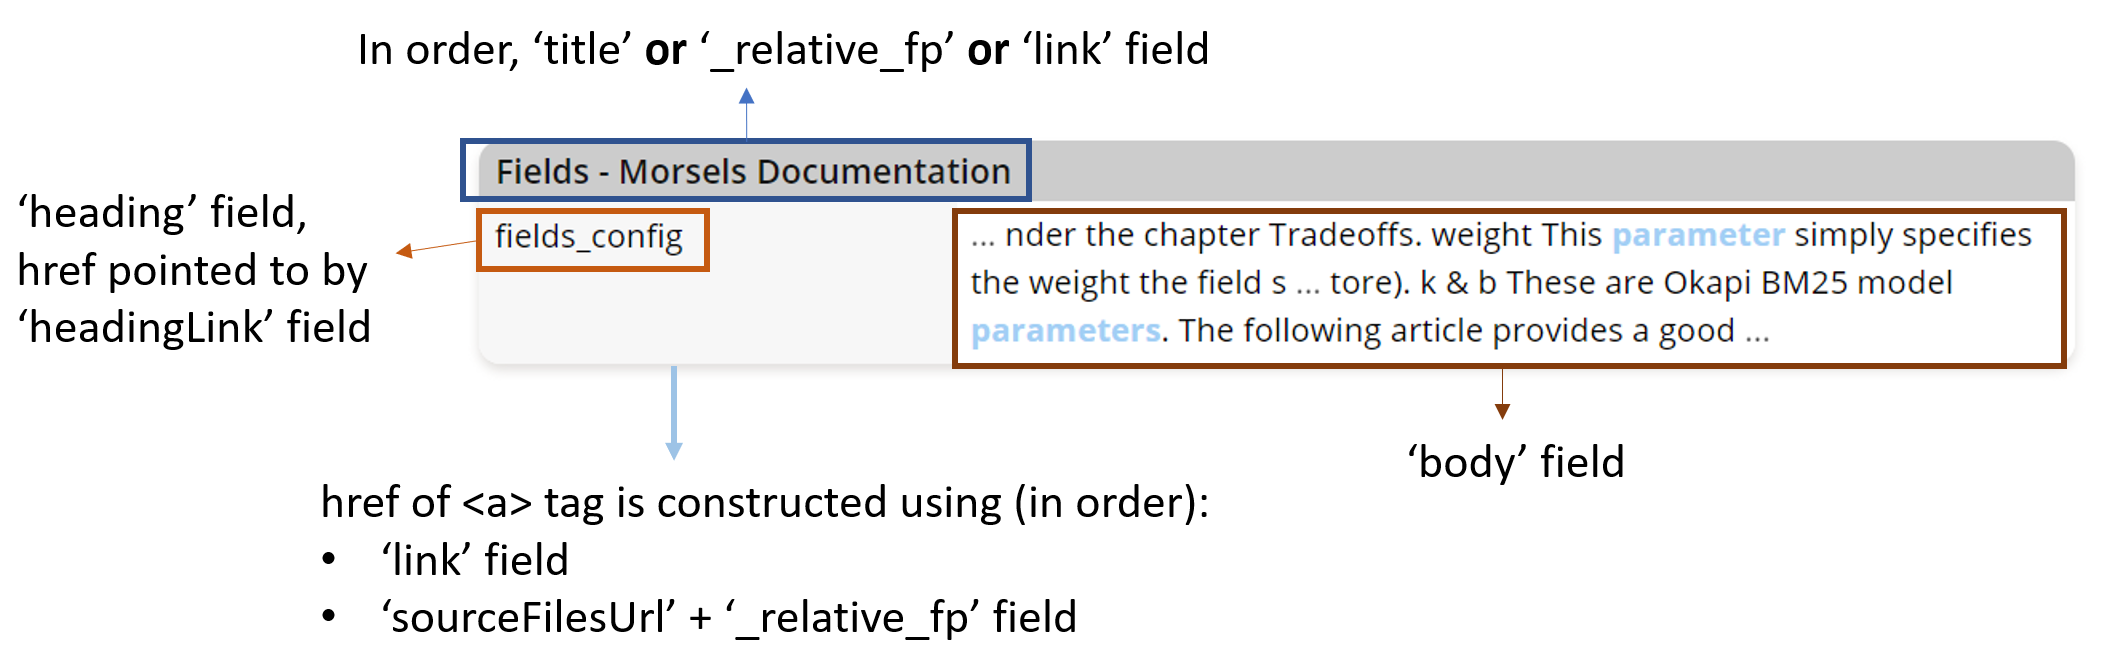
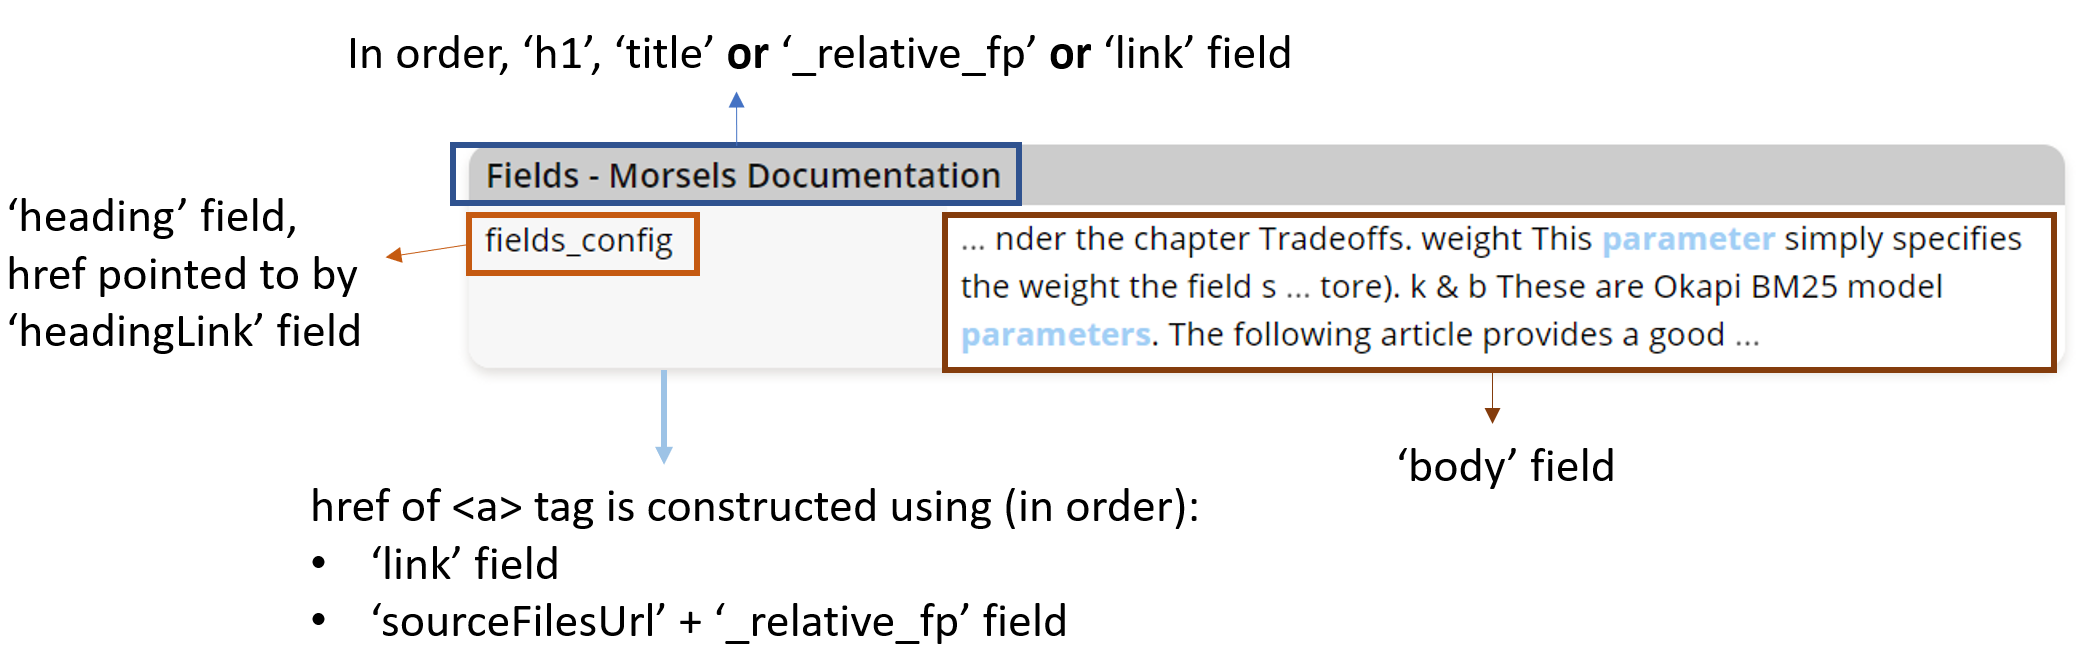
Prefer H1 to <title> if present

diff --git a/packages/search-ui/src/searchResultTransform.ts b/packages/search-ui/src/searchResultTransform.ts
@@ -32,6 +32,7 @@ async function singleResultRender(
   let link: string;
   let relativeLink: string;
   let resultTitle: string;
+  let encounteredH1 = false;
   for (const fieldNameAndField of fields) {
     const [fieldName, fieldText] = fieldNameAndField;
     switch (fieldName) {
@@ -44,8 +45,15 @@ async function singleResultRender(
       case 'title':
         resultTitle = resultTitle || fieldText;
         break;
+      case 'h1':
+        if (!encounteredH1) {
+          resultTitle = fieldText;
+          encounteredH1 = true;
+        }
+        break;
+      case 'body':
     }
-    if (link && relativeLink && resultTitle) {
+    if (link && relativeLink && resultTitle && encounteredH1) {
       break;
     }
   }

diff --git a/packages/search-ui/src/searchResultTransform/transform.ts b/packages/search-ui/src/searchResultTransform/transform.ts
@@ -205,10 +205,20 @@ export function transformHtml(
   
   traverse(doc.documentElement, undefined);
   
-  const titleField = fields.find((pair) => pair[0] === 'title');
   let title = '';
-  if (titleField) {
-    [,title] = titleField;
+  let encounteredH1 = false;
+  for (const fieldNameAndField of fields) {
+    const [fieldName, fieldText] = fieldNameAndField;
+    if (fieldName === 'title') {
+      title = title || fieldText;
+    } else if (fieldName === 'h1' && !encounteredH1) {
+      title = fieldText;
+      encounteredH1 = true;
+    }
+
+    if (title && encounteredH1) {
+      break;
+    }
   }
   
   return {

diff --git a/packages/morsels_indexer/src/loader/html.rs b/packages/morsels_indexer/src/loader/html.rs
@@ -32,7 +32,7 @@ pub struct HtmlLoaderSelectorRaw {
 
 fn get_default_html_loader_selectors() -> Vec<HtmlLoaderSelectorRaw> {
     let mut heading_selector = HtmlLoaderSelectorRaw {
-        selector: "h1,h2,h3,h4,h5,h6".to_owned(),
+        selector: "h2,h3,h4,h5,h6".to_owned(),
         field_name: Some("heading".to_owned()),
         attr_map: FxHashMap::default(),
     };
@@ -42,6 +42,11 @@ fn get_default_html_loader_selectors() -> Vec<HtmlLoaderSelectorRaw> {
         HtmlLoaderSelectorRaw {
             selector: "title".to_owned(),
             field_name: Some("title".to_owned()),
+            attr_map: FxHashMap::default(),
+        },
+        HtmlLoaderSelectorRaw {
+            selector: "h1".to_owned(),
+            field_name: Some("h1".to_owned()),
             attr_map: FxHashMap::default(),
         },
         HtmlLoaderSelectorRaw {

diff --git a/packages/morsels_indexer/src/fieldinfo.rs b/packages/morsels_indexer/src/fieldinfo.rs
@@ -38,6 +38,7 @@ impl Default for FieldsConfig {
             cache_all_field_stores: get_default_cache_all_field_stores(),
             fields: vec![
                 FieldConfig { name: "title".to_owned(), do_store: false, weight: 2.0, k: 1.2, b: 0.15 },
+                FieldConfig { name: "h1".to_owned(), do_store: false, weight: 2.0, k: 1.2, b: 0.15 },
                 FieldConfig { name: "heading".to_owned(), do_store: false, weight: 1.5, k: 1.2, b: 0.25 },
                 FieldConfig { name: "body".to_owned(), do_store: false, weight: 1.0, k: 1.2, b: 0.75 },
                 FieldConfig { name: "headingLink".to_owned(), do_store: false, weight: 0.0, k: 1.2, b: 0.75 },

diff --git a/docs/src/indexer/fields.md b/docs/src/indexer/fields.md
@@ -21,6 +21,13 @@ This snippet shows the default values:
         "b": 0.15
       },
       {
+        "name": "h1",
+        "do_store": false,
+        "weight": 2.0,
+        "k": 1.2,
+        "b": 0.15
+      },
+      {
         "name": "heading",
         "do_store": false,
         "weight": 1.5,
@@ -60,7 +67,7 @@ The functions of the default fields for the user interface are as follows:
 
 <img alt="annotation for fields" src="../images/fields_annotated.png" />
 
-- `title`: This is the header for a single document match, usually sourced from the HTML `<title>` tag. When unavailable, `_relative_fp` field is formatted into a breadcrumb format (e.g. `user guide » introduction`) instead.
+- `h1`, `title`: This is the header for a single document match, usually sourced from the HTML `<title>` or `<h1>` tag. When unavailable, `_relative_fp` field is formatted into a breadcrumb format (e.g. `user guide » introduction`) instead.
 
 - `heading`: These are section headers which appear on the left of corresponding `body` field, sourced from `<h1-6>` tags.
 

diff --git a/docs/src/indexer/indexing.md b/docs/src/indexer/indexing.md
@@ -55,6 +55,13 @@ You may configure loaders by **including them under the `loader_configs` key**, 
         "field_name": "title",
         "selector": "title"
       },
+      // <h1> tags are indexed into a separate field,
+      // and takes overwrites the title in the generated SERP if found
+      {
+        "attr_map": {},
+        "field_name": "h1",
+        "selector": "h1"
+      },
       {
         "attr_map": {},
         "field_name": "body",
@@ -65,7 +72,7 @@ You may configure loaders by **including them under the `loader_configs` key**, 
           "id": "headingLink" // "store the id attribute under headingLink"
         },
         "field_name": "heading",
-        "selector": "h1,h2,h3,h4,h5,h6"
+        "selector": "h2,h3,h4,h5,h6"
       }
     ]
   }
